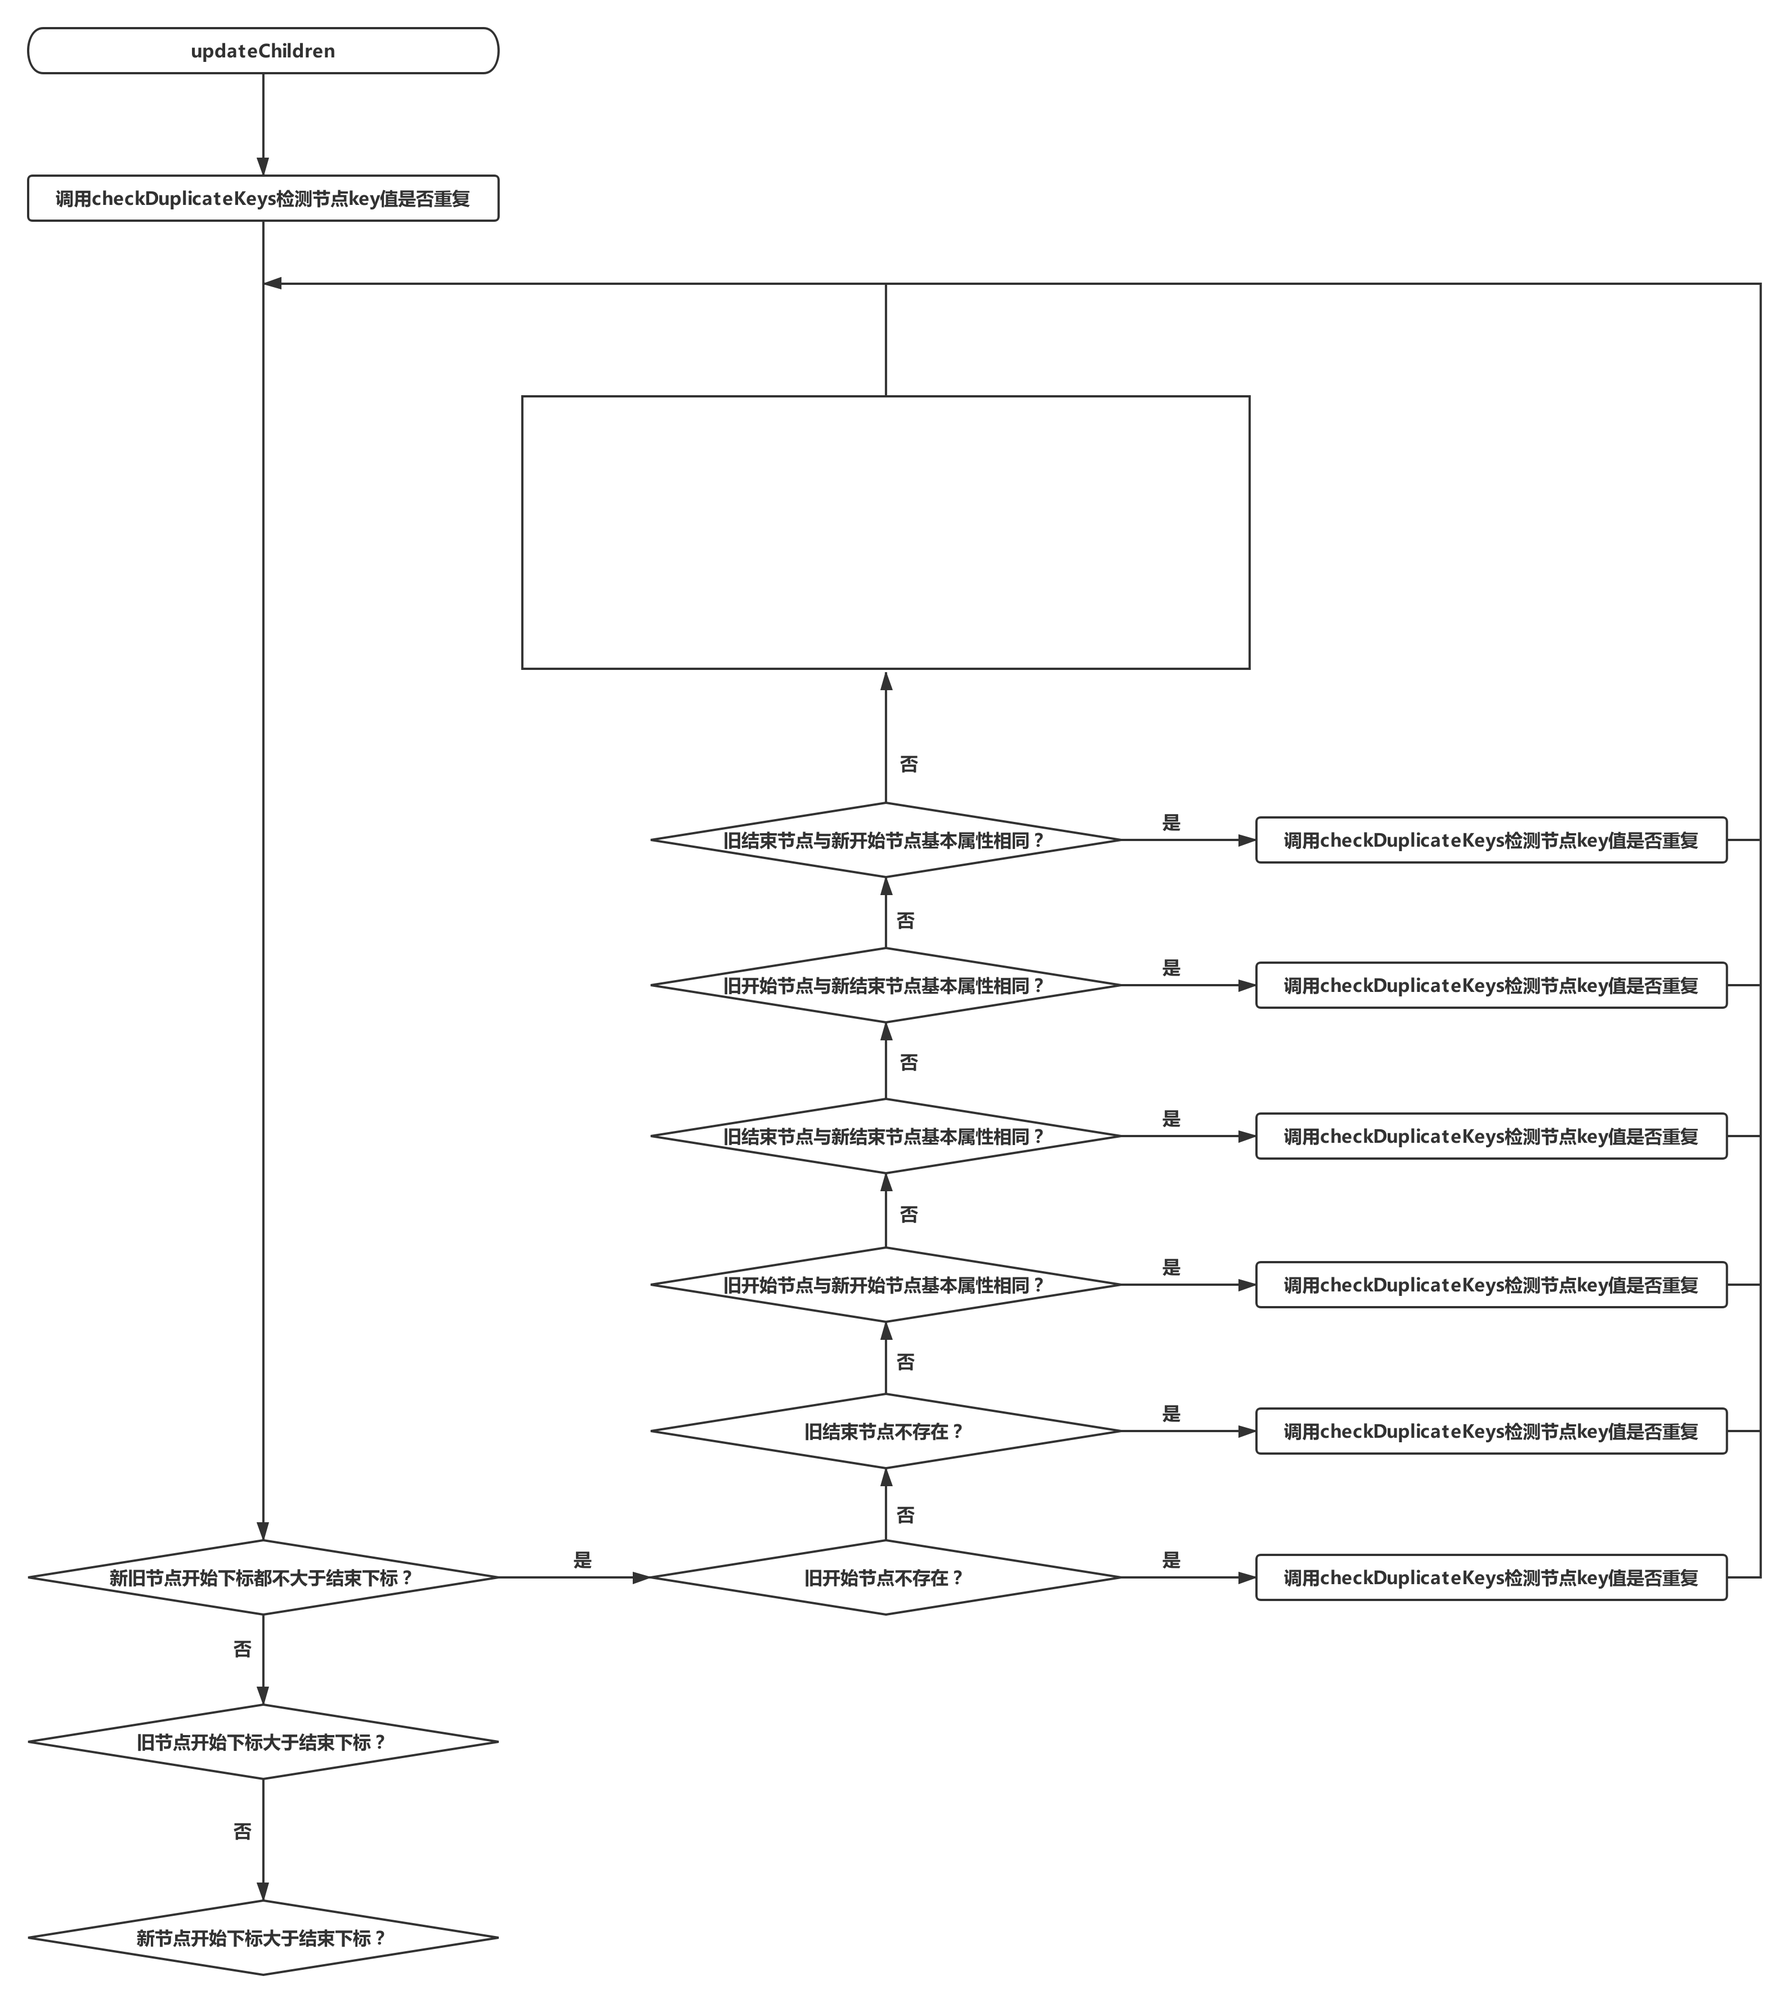
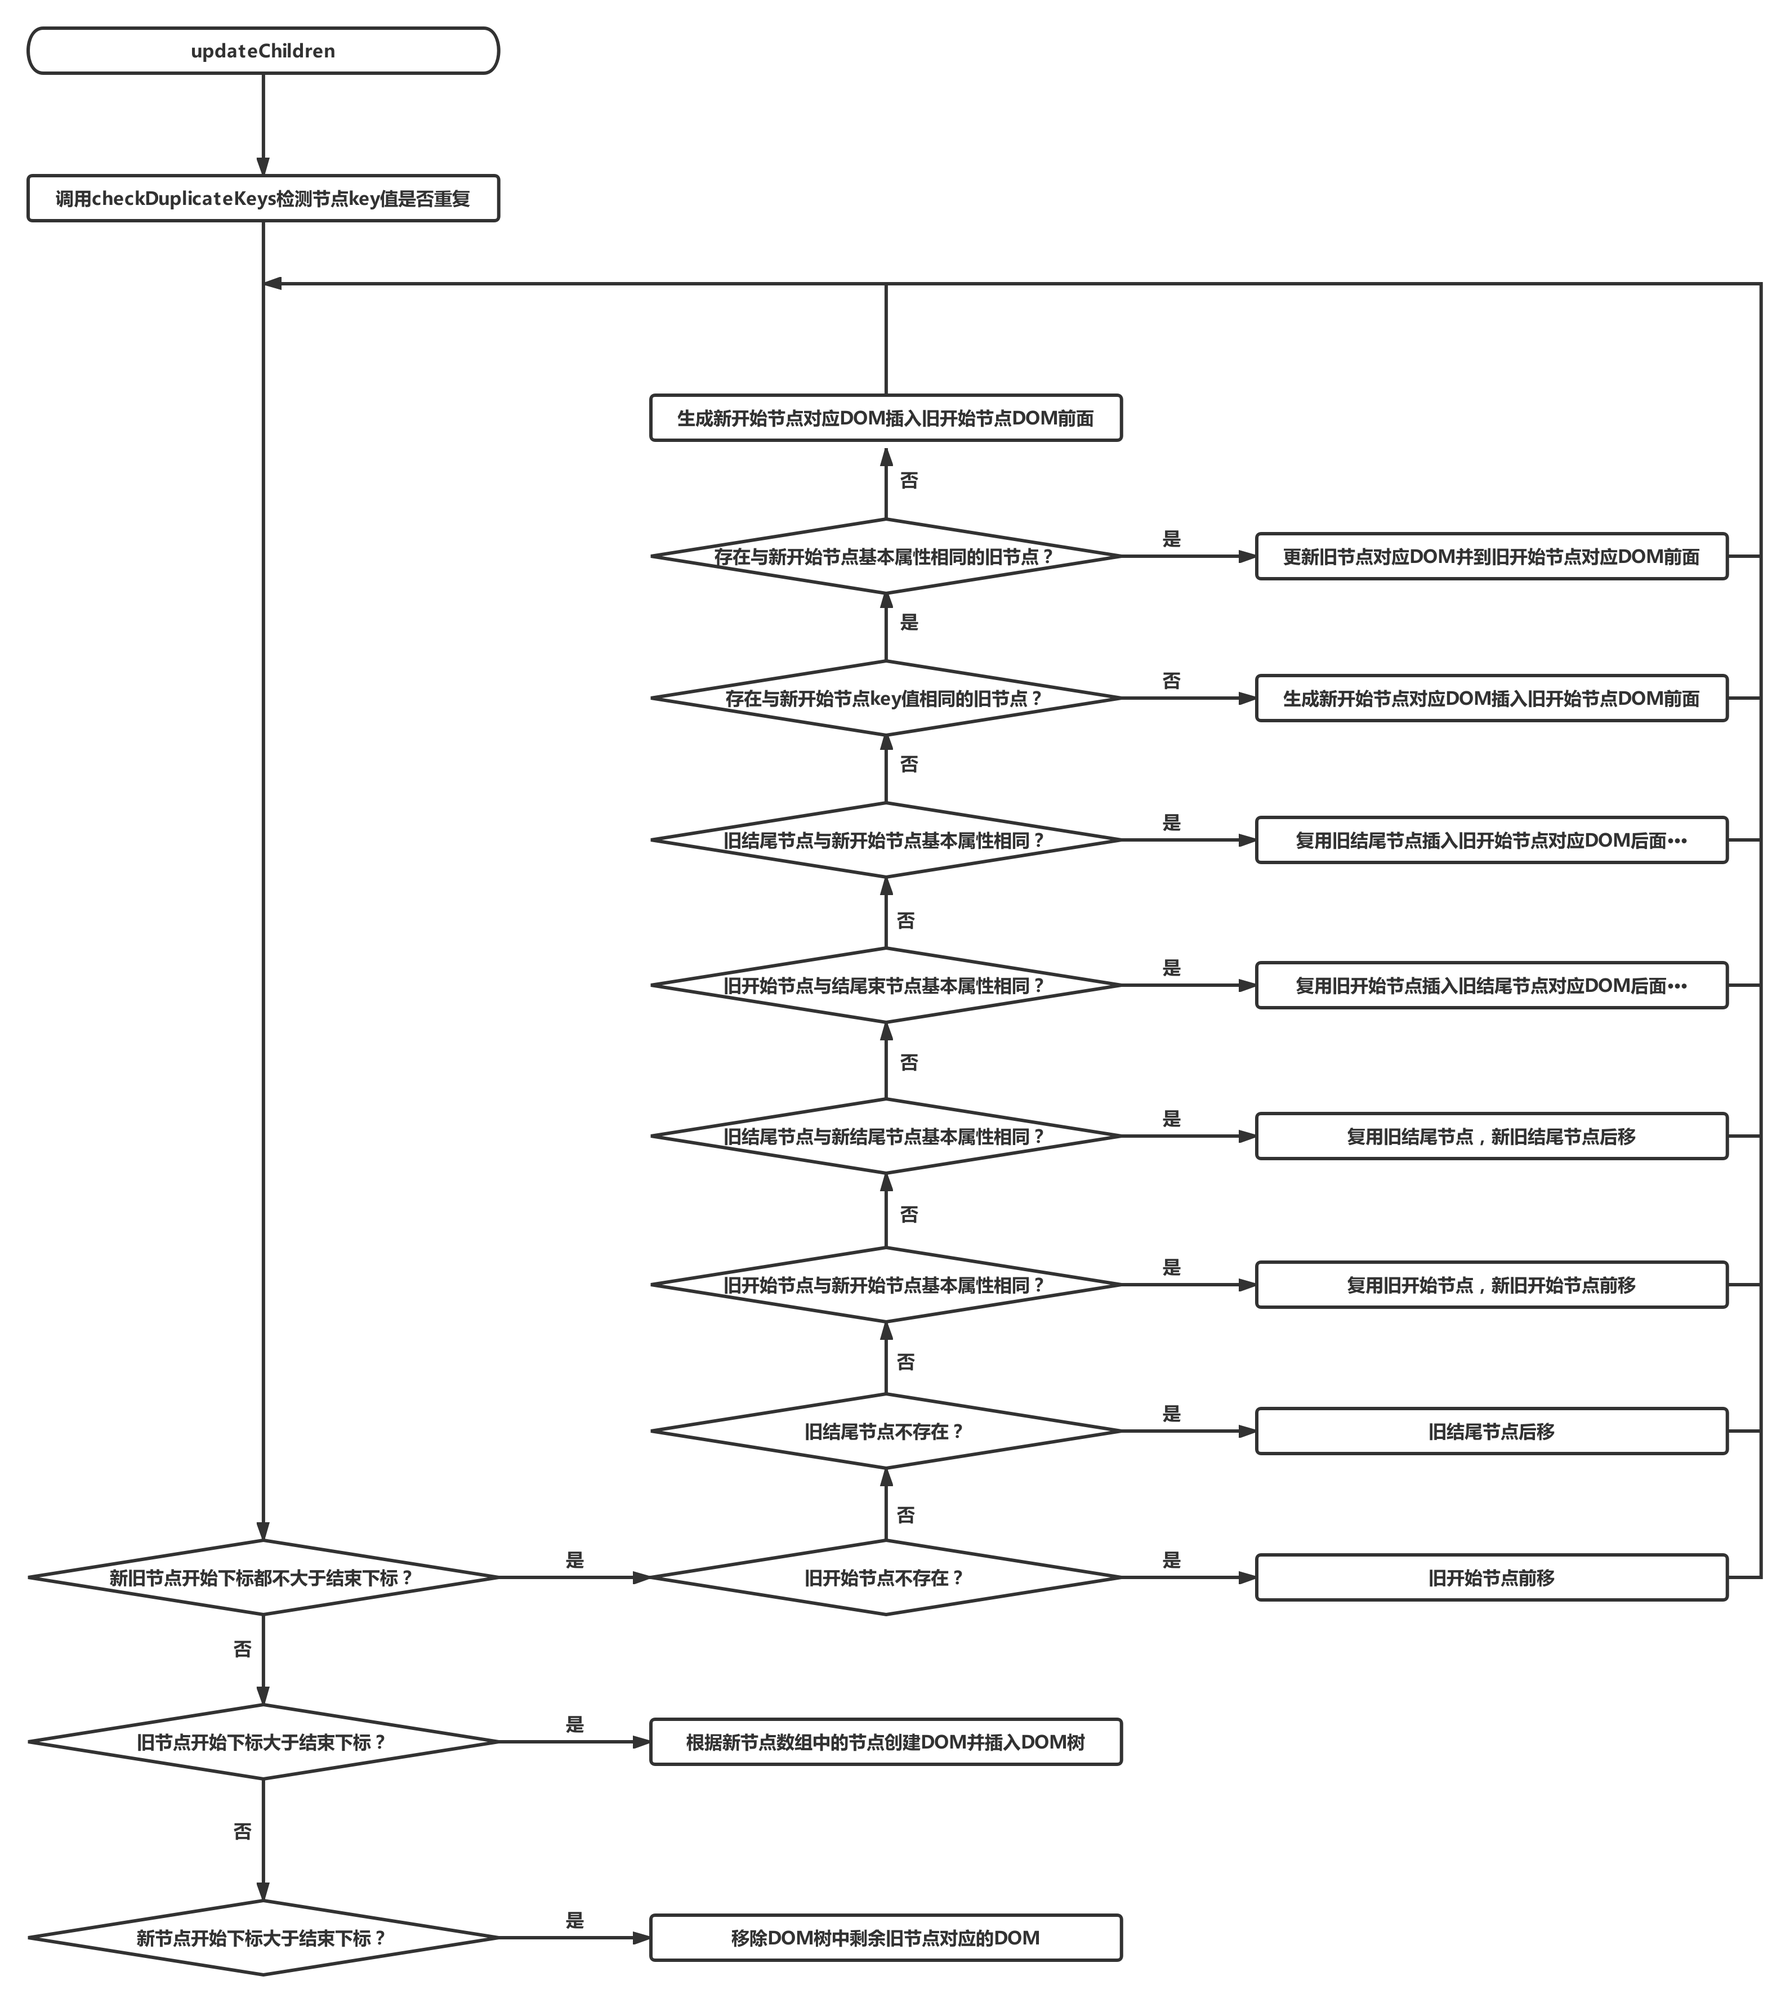
虚拟dom完成

diff --git a/vue/虚拟DOM.md b/vue/虚拟DOM.md
@@ -1,7 +1,7 @@
 # Vue2.0源码阅读笔记（六）：Virtual DOM
 &emsp;&emsp;Vue2.0 与 Vue1.0最大的区别就是使用了 Virtual DOM 。使用虚拟DOM的好处主要有两点：<br/>
 > 1、采取分层设计的思想，抽象渲染过程，使框架可以渲染到多个平台。<br/>
-> 1、很多时候使用虚拟DOM性能不是最好，但是能在性能和可维护性之间达到一个平衡。<br/>
+> 2、很多时候使用虚拟DOM性能不是最好，但是能在性能和可维护性之间达到一个平衡。<br/>
 
 &emsp;&emsp;在具体介绍虚拟DOM之前，先找到DOM挂载方法的位置与生成的过程。<br/>
 ## 一、DOM挂载方法
@@ -904,12 +904,12 @@ function updateChildren (parentElm, oldCh, newCh, insertedVnodeQueue, removeOnly
       patchVnode(oldEndVnode, newEndVnode, insertedVnodeQueue, newCh, newEndIdx)
       oldEndVnode = oldCh[--oldEndIdx]
       newEndVnode = newCh[--newEndIdx]
-    } else if (sameVnode(oldStartVnode, newEndVnode)) { // Vnode moved right
+    } else if (sameVnode(oldStartVnode, newEndVnode)) {
       patchVnode(oldStartVnode, newEndVnode, insertedVnodeQueue, newCh, newEndIdx)
       canMove && nodeOps.insertBefore(parentElm, oldStartVnode.elm, nodeOps.nextSibling(oldEndVnode.elm))
       oldStartVnode = oldCh[++oldStartIdx]
       newEndVnode = newCh[--newEndIdx]
-    } else if (sameVnode(oldEndVnode, newStartVnode)) { // Vnode moved left
+    } else if (sameVnode(oldEndVnode, newStartVnode)) {
       patchVnode(oldEndVnode, newStartVnode, insertedVnodeQueue, newCh, newStartIdx)
       canMove && nodeOps.insertBefore(parentElm, oldEndVnode.elm, oldStartVnode.elm)
       oldEndVnode = oldCh[--oldEndIdx]
@@ -919,7 +919,7 @@ function updateChildren (parentElm, oldCh, newCh, insertedVnodeQueue, removeOnly
       idxInOld = isDef(newStartVnode.key)
         ? oldKeyToIdx[newStartVnode.key]
         : findIdxInOld(newStartVnode, oldCh, oldStartIdx, oldEndIdx)
-      if (isUndef(idxInOld)) { // New element
+      if (isUndef(idxInOld)) {
         createElm(newStartVnode, insertedVnodeQueue, parentElm, oldStartVnode.elm, false, newCh, newStartIdx)
       } else {
         vnodeToMove = oldCh[idxInOld]
@@ -928,7 +928,6 @@ function updateChildren (parentElm, oldCh, newCh, insertedVnodeQueue, removeOnly
           oldCh[idxInOld] = undefined
           canMove && nodeOps.insertBefore(parentElm, vnodeToMove.elm, oldStartVnode.elm)
         } else {
-          // same key but different element. treat as new element
           createElm(newStartVnode, insertedVnodeQueue, parentElm, oldStartVnode.elm, false, newCh, newStartIdx)
         }
       }
@@ -984,12 +983,13 @@ if (sameVnode(oldStartVnode, newStartVnode)) {
   newStartVnode = newCh[++newStartIdx]
 }
 ```
-&emsp;&emsp;举个节点全部都可以复用的例子，这是双端比较算法最理想的情况。双端比较的顺序为：<br/>
+&emsp;&emsp;双端比较的顺序为：<br/>
 > 1、比较新旧开始节点。<br/>
 > 2、比较新旧结尾节点。<br/>
 > 3、比较旧开始节点与新结尾节点。<br/>
 > 4、比较旧结尾节点与新开始节点。<br/>
 
+&emsp;&emsp;举个节点全部都可以复用的例子，这是双端比较算法最理想的情况：<br/>
 ![patch](../image/vue/patch_7.png)
 &emsp;&emsp;第一轮双端比较在第三次比对时找到可复用节点A，改造A对应的真实DOM节点然后插入到 *oldEndVnode* 对应DOM节点D的后面，最后前移旧开始节点、后移新结尾节点。<br/>
 ![patch](../image/vue/patch_8.png)
@@ -999,26 +999,101 @@ if (sameVnode(oldStartVnode, newStartVnode)) {
 ![patch](../image/vue/patch_10.png)
 &emsp;&emsp;第四轮双端比较在第一次比对时找到可复用节点C，改造C对应的真实DOM节点，然后前移新旧开始节点。<br/>
 ![patch](../image/vue/patch_11.png)
-&emsp;&emsp;经过四轮双端比较之后，全部节点都已比对，并且节点的复用以及位置调整都已完成。<br/>
-#### （三）、双端比较未成功
-&emsp;&emsp;<br/>
-&emsp;&emsp;<br/>
-&emsp;&emsp;<br/>
-&emsp;&emsp;<br/>
-#### （四）、添加新节点
-&emsp;&emsp;<br/>
-&emsp;&emsp;<br/>
-&emsp;&emsp;<br/>
-&emsp;&emsp;<br/>
-#### （五）、删除旧节点
-&emsp;&emsp;<br/>
-&emsp;&emsp;<br/>
-&emsp;&emsp;<br/>
-&emsp;&emsp;<br/>
-### 3、小结
-&emsp;&emsp;<br/>
-&emsp;&emsp;<br/>
-&emsp;&emsp;<br/>
+&emsp;&emsp;经过四轮双端比较之后，全部节点都已比对，并且节点的复用以及位置调整都已完成。双端比较的结束条件是**新旧子节点中有开始节点的下标大于结尾节点的下标**。因此，上述双端比较代码会包裹在如下条件中：<br/>
+```js
+while (oldStartIdx <= oldEndIdx && newStartIdx <= newEndIdx){
+  /* 双端比较代码 */
+}
+```
+#### （三）、非理想情况下的双端比较
+&emsp;&emsp;当经过四轮双端比较，也就是新旧首尾节点都比较之后，如果没有发现可复用的节点，则使用新开始节点与未处理的旧子节点挨个比较，找寻可复用的节点。<br/>
+&emsp;&emsp;这种比对的结果有两种情况：**找到新开始节点对应的可复用旧节点**、**未找到可复用旧节点**。<br/>
+&emsp;&emsp;在代码中的实现是借助两个变量来判断的：*oldKeyToIdx*、*idxInOld*。<br/>
+```js
+if(isUndef(oldKeyToIdx))oldKeyToIdx = createKeyToOldIdx(oldCh, oldStartIdx, oldEndIdx)
+idxInOld = isDef(newStartVnode.key) ? oldKeyToIdx[newStartVnode.key] : null
+```
+&emsp;&emsp;两个变量的含义为：<br/>
+> oldKeyToIdx：存放未处理旧子节点 *key* 值下标的对象。<br/>
+> idxInOld：与新开始节点 *key*值相同的旧节点下标。<br/>
+
+&emsp;&emsp;此处找寻可复用节点分两步进行：首先比较 *key* 值，如果 *key* 值不相同，则直接可以判定该节点不是可复用节点；如果 *key* 值相同，再调用 *sameVnode* 函数精确判断是否为可复用节点。所以这段代码的结构如下所示：<br/>
+```js
+if(isUndef(idxInOld)) {
+/* key 值不相同，节点不可复用 */
+} else {
+  elmToMove = oldCh[idxInOld]
+  if (sameVnode(elmToMove, newStartVnode)) {
+    /* key 相同且节点可以复用 */
+  } else {
+    /* key 值相同但是节点不可复用 */
+  }
+}
+```
+&emsp;&emsp;若未找到新开始节点对应可复用的节点，则表示这个节点是新添加的。生成该VNode对应的真实DOM，将其插入到旧开始节点对应DOM的前面，最后新开始节点前移。处理代码如下：<br/>
+```js
+createElm(newStartVnode, insertedVnodeQueue, parentElm, oldStartVnode.elm)
+newStartVnode = newCh[++newStartIdx]
+```
+&emsp;&emsp;如果找到可复用节点，则更新该节点对应DOM的信息，将其移到旧开始节点对应的前面。同时将可复用旧节点置为空，然后将新开始节点前移。<br/>
+```js
+patchVnode(elmToMove, newStartVnode, insertedVnodeQueue)
+oldCh[idxInOld] = undefined
+canMove && nodeOps.insertBefore(parentElm, elmToMove.elm, oldStartVnode.elm)
+newStartVnode = newCh[++newStartIdx]
+```
+&emsp;&emsp;有一个问题需要注意：**上面提到在非双端节点可复用时，在操作DOM之后将VNode置为空**。也就是说，在之后的双端比较时旧开始或者结尾节点有可能为空，上述代码并没有处理这种情况，因此添加如下代码：<br/>
+```js
+if (isUndef(oldStartVnode)) {
+  oldStartVnode = oldCh[++oldStartIdx]
+} else if (isUndef(oldEndVnode)) {
+  oldEndVnode = oldCh[--oldEndIdx]
+}
+```
+&emsp;&emsp;处理的方式很简单，遇到为空的情况直接跳过，移动节点即可。<br/>
+&emsp;&emsp;至此，双端比较在开始节点下标没有大于结尾下标的情况已经全部说完，下面给出简略版代码：<br/>
+```js
+while (oldStartIdx <= oldEndIdx && newStartIdx <= newEndIdx) {
+  if (isUndef(oldStartVnode)) {
+    /* 该位置原本节点已经复用，仅仅移动节点 */
+  } else if (isUndef(oldEndVnode)) {
+    /* 该位置原本节点已经复用，仅仅移动节点 */
+  } else if (sameVnode(oldStartVnode, newStartVnode)) {
+    /* 双端比较第一轮：比较新旧开始节点 */
+  } else if (sameVnode(oldEndVnode, newEndVnode)) {
+    /* 双端比较第二轮：比较新旧结尾节点 */
+  } else if (sameVnode(oldStartVnode, newEndVnode)) {
+    /* 双端比较第三轮：比较新结尾节点与旧开始节点 */
+  } else if (sameVnode(oldEndVnode, newStartVnode)) {
+    /* 双端比较第四轮：比较新开始节点与旧结尾节点 */
+  } else {
+    if (isUndef(idxInOld)) {
+      /* 旧节点数组中没有和新开始节点key值相同的节点 */
+    } else {
+      if (sameVnode(elmToMove, newStartVnode)) {
+        /* 旧节点数组中有新开始节点可以复用的节点 */
+      } else {
+        /* 旧节点数组中没有新开始节点能够复用的节点 */
+      }
+    }
+  }
+}
+```
+#### （四）、处理剩余节点
+&emsp;&emsp;双端比较算法是从两端向中间方向处理，如果当新旧节点数组有一个处理完毕另一个没处理完，双端比较算法就没办法进行下去。<br/>
+&emsp;&emsp;简单分析可知，如果旧节点数组处理完毕而新节点数组中还有节点，说明有新的DOM节点需要添加；如果新节点数组处理完毕而旧节点数组中还有节点，说明有旧的DOM节点需要删除。如下代码所示：<br/>
+```js
+if (oldStartIdx > oldEndIdx) {
+  refElm = isUndef(newCh[newEndIdx + 1]) ? null : newCh[newEndIdx + 1].elm
+  addVnodes(parentElm, refElm, newCh, newStartIdx, newEndIdx, insertedVnodeQueue)
+} else if (newStartIdx > newEndIdx) {
+  removeVnodes(parentElm, oldCh, oldStartIdx, oldEndIdx)
+}
+```
+&emsp;&emsp;当只有新节点数组中还有未处理节点时，则创建新节点并插入到适当位置中；当只有旧节点还有未处理节点时，则删除节点对应的DOM。<br/>
 ## 五、总结
-&emsp;&emsp;<br/>
-&emsp;&emsp;<br/>
+&emsp;&emsp;Vue在进行一系列初始化之后挂载DOM，挂载函数 *$mount* 本质是调用 *mountComponent* 来完成渲染函数生成DOM并挂载的过程。<br/>
+&emsp;&emsp;挂载时首先调用 *_render* 方法根据渲染函数生成虚拟DOM，然后调用 *_update* 方法在首次渲染时将虚拟DOM转化成真实DOM并挂载，在数据更新时对比虚拟DOM的变化来对真实DOM进行更新。<br/>
+&emsp;&emsp;主要依靠 *createElement* 函数将生成虚拟DOM节点VNode，当然也有一些其它的辅助函数来帮助完成转化渲染函数的任务。VNode分为四类：组件类型、标签元素类型、注释类型、文本类型。<br/>
+&emsp;&emsp;*_update* 方法将虚拟DOM转化为真实DOM并在数据改变时更新视图的功能主要时调用 *patch* 函数完成的。*patch* 根据新旧VNode的具体情况来进行相应处理，比较核心的是为了提升性能在旧节点能够复用时调用 *patchVnode* 函数进行节点复用。<br/>
+&emsp;&emsp;如果标签节点基本属性一样，可以被复用，则通常只需更新真实DOM的属性和子节点即可。子节点的更新由 *updateChildren* 函数完成。在 *updateChildren* 中主要采用双端比较算法来进行新旧子节点对比。<br/>

diff --git a/javaScript/Promise.md b/javaScript/Promise.md
@@ -1,10 +1,35 @@
 # JavaScript夯实基础系列（六）：Promise
 &emsp;&emsp;<br/>
 &emsp;&emsp;<br/>
-### 一、API
+### 一、构造函数
 &emsp;&emsp;<br/>
+```js
+function Promise(resolver) {
+  this[PROMISE_ID] = nextId();
+  this._result = this._state = undefined;
+  this._subscribers = [];
+
+  if(typeof resolver === 'function') {
+    if(this instanceof Promise) {
+      try {
+        resolver(function resolvePromise(value) {
+            resolve(promise, value);
+          }, function rejectPromise(reason) {
+            reject(promise, reason);
+        });
+      } catch (e) {
+        reject(promise, e);
+      }
+    } else {
+      throw new TypeError("Failed to construct 'Promise': Please use the 'new' operator, this object constructor cannot be called as a function.");
+    }
+  } else {
+    throw new TypeError('You must pass a resolver function as the first argument to the promise constructor');
+  }
+}
+```
 &emsp;&emsp;<br/>
-### 二、原生实现
+### 二、Promise.prototype.then()
 &emsp;&emsp;<br/>
 &emsp;&emsp;<br/>
 ### 三、存在的问题
